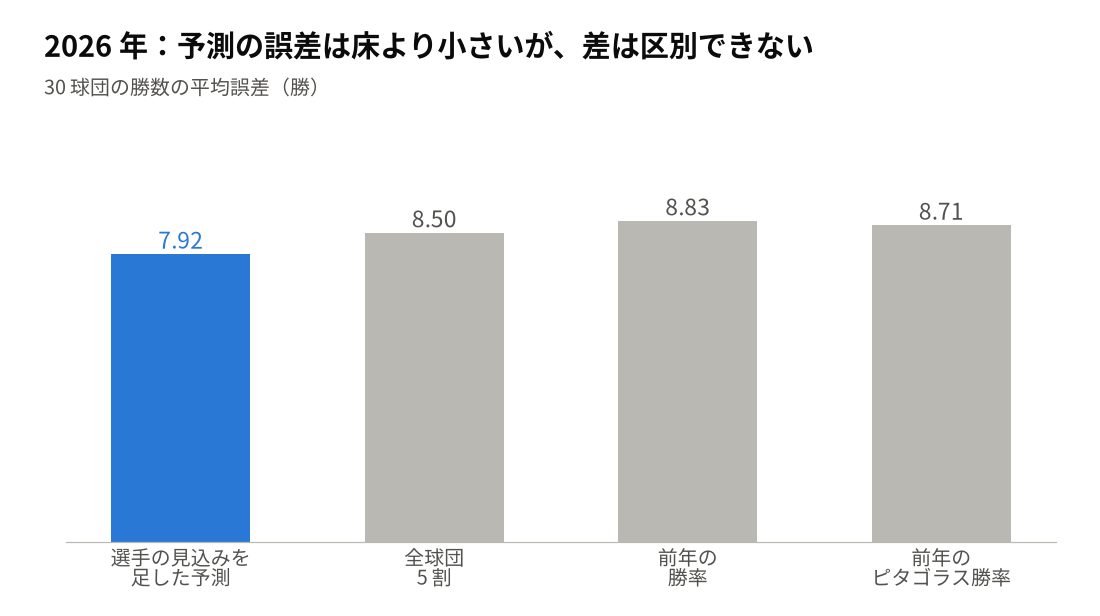
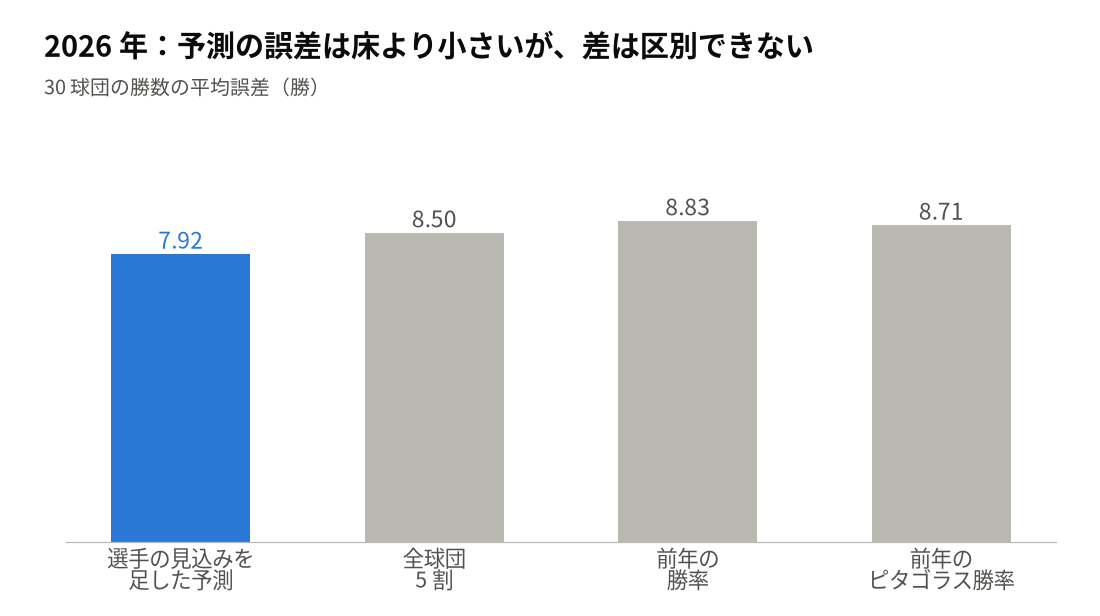
forecast article: conclusion titles, 14pt axis text, figures 8-9, MIL split on the 162-game scaling
Figure 8 splits the four big misses into runs vs record; figure 9 splits
MIL's run gap (projected batters +52, pitchers +24 of about 189). Player
projections are now scaled like the team total, so the parts add up on
the same basis. Figure 7 reads its shares from share_2026.csv.

Claude-Session: https://claude.ai/code/session_013dut8wroSJTVUEu9jYr6BF

diff --git a/forecast/team_wins/article_figs_tw.py b/forecast/team_wins/article_figs_tw.py
@@ -25,28 +25,36 @@ T = {
    f1l=["選手の見込みを\n足した予測", "全球団\n5 割", "前年の\n勝率", "前年の\nピタゴラス勝率"],
    f2="9 シーズン中 7 シーズンで、前年のピタゴラス勝率より誤差が小さかった", f2n="平均誤差（勝）",
    f2a="選手の見込みを足した予測", f2b="前年のピタゴラス勝率（床）",
-   f3="当たった球団と外れた球団", f3x="予測した勝数", f3y="実際の勝数",
+   f3="大きく外れたのは MIL・TB・SF・ATH の 4 球団", f3x="予測した勝数", f3y="実際の勝数",
    f4="予測の散らばりは実際の半分しかない", f4a="予測", f4b="実際", f4x="2026 年の勝数", f4n="標準偏差：予測 {p:.1f} 勝、実際 {a:.1f} 勝",
-   f5="得失点が分かっていても 4 勝は外れる", f5n="2026 年・30 球団の平均誤差（勝）",
+   f5="得失点が分かっていても 4 勝ほどは外れる", f5n="2026 年・30 球団の平均誤差（勝）",
    f5l=["実際の得失点から\nピタゴラス式で", "選手の見込みから\n（今回の予測）"],
-   f6="MIL：見込みの対象だった選手が上振れした", f6x="見込みとの差（点・失点を防いだ分も含む）",
+   f6="MIL：見込みより 30 点以上上振れした選手が 2 人いた", f6x="見込みとの差（点・失点を防いだ分も含む）",
    f6n="打者は wOBA、投手は FIP から換算した、リーグ平均を上回った点の差",
-   f7="出場の 2〜3 割は、見込みの無い選手だった", f7n="2026 年、開幕時の 40 人枠に過去の成績がある選手以外が占めた割合",
-   f7l=["打席", "投球回"]),
+   f7="出場の 2〜3 割は、見込みの無い選手だった", f7n="2026 年、開幕時の 40 人枠にいて過去の成績もある選手以外が占めた割合",
+   f7l=["打席", "投球回"],
+   f8="外れの中身は球団ごとに違う", f8n="予測との差（勝）を 2 つに分けたもの。マイナス＝予測より多く勝った",
+   f8a="得失点の見込みのずれ", f8b="得失点のわりの勝ち負け",
+   f9="MIL：得失点のずれのうち、見込みのあった選手の上振れは 4 割", f9n="得点 +93・失点 −96、合わせて約 190 点のずれの内訳（点）",
+   f9l=["見込みのあった打者の上振れ", "見込みのあった投手の上振れ\n（FIP から見た分）", "それ以外\n（守備・走塁・見込みの無い選手など）"]),
  "en": dict(font="DejaVu Sans",
    f1="2026: lower error than the floors, but not distinguishably",
    f1n="Mean absolute error of wins over 30 teams",
    f1l=["Projection from\nplayer forecasts", "Every team\n.500", "Last season's\nrecord", "Last season's\nPythagenpat"],
    f2="Lower error than last season's Pythagenpat in 7 of 9 seasons", f2n="Mean absolute error (wins)",
    f2a="Projection from player forecasts", f2b="Last season's Pythagenpat (floor)",
-   f3="Hits and misses", f3x="Projected wins", f3y="Actual wins",
+   f3="The big misses were MIL, TB, SF and ATH", f3x="Projected wins", f3y="Actual wins",
    f4="The projections spread half as wide as the results", f4a="Projected", f4b="Actual", f4x="2026 wins", f4n="Standard deviation: projected {p:.1f}, actual {a:.1f} wins",
-   f5="Even with the actual runs, a 4-win miss remains", f5n="2026, mean absolute error over 30 teams (wins)",
+   f5="Even with the actual runs, about 4 wins of error remain", f5n="2026, mean absolute error over 30 teams (wins)",
    f5l=["Pythagenpat from\nactual runs", "From player\nforecasts (this one)"],
-   f6="MIL: players it did project played above their forecasts", f6x="Actual minus projected runs",
+   f6="MIL: two projected players beat their forecast by 30+ runs", f6x="Actual minus projected runs",
    f6n="Runs above league average from wOBA (batters) or FIP (pitchers)",
-   f7="20-30% of playing time went to players with no forecast", f7n="2026: share not by opening-day 40-man players with MLB history",
-   f7l=["Plate appearances", "Innings"]),
+   f7="20-30% of playing time went to players with no forecast", f7n="2026: share taken by players other than opening-day 40-man players with MLB history",
+   f7l=["Plate appearances", "Innings"],
+   f8="What the miss is made of differs by team", f8n="Projected minus actual wins, split in two; negative = won more than projected",
+   f8a="Runs projection off", f8b="Record vs runs",
+   f9="MIL: projected players beating forecasts explain 40% of the run gap", f9n="Runs +93 scored, -96 allowed: about 190 runs in all",
+   f9l=["Projected batters\nabove forecast", "Projected pitchers\nabove forecast (FIP)", "Everything else\n(fielding, baserunning,\nunprojected players)"]),
 }
 
 
@@ -54,7 +62,7 @@ def base(ax):
     for s in ("top", "right", "left"):
         ax.spines[s].set_visible(False)
     ax.spines["bottom"].set_color(GRAY)
-    ax.tick_params(colors=SUB, length=0, labelsize=13)
+    ax.tick_params(colors=SUB, length=0, labelsize=14)
 
 
 def title(fig, text, note=None):
@@ -138,16 +146,45 @@ for lang, t in T.items():
     for i, v in enumerate(g.values):
         ax.text(v + 0.5, i, f"+{v:.0f}", va="center", fontsize=13, color=ORANGE if v > 25 else SUB)
     ax.set_yticks(range(len(g)), g.index); ax.set_xticks([])
-    ax.set_xlabel(t["f6x"], fontsize=13, color=SUB)
+    ax.set_xlabel(t["f6x"], fontsize=14, color=SUB)
     save(fig, "team_wins_6", lang)
 
     # 7. unprojected playing time
     fig = plt.figure(figsize=(10, 4.6)); title(fig, t["f7"], t["f7n"])
     ax = fig.add_axes([0.2, 0.12, 0.74, 0.55]); base(ax)
-    v = [0.198, 0.271]
+    sh = pd.read_csv("share_2026.csv").iloc[0]
+    v = [sh.pa, sh.ip]
     ax.barh([1, 0], v, color=BLUE, height=0.5)
     for i, y in zip([1, 0], v):
         ax.text(y + 0.005, i, f"{y:.0%}", va="center", fontsize=15, color=BLUE)
     ax.set_yticks([1, 0], t["f7l"]); ax.set_xticks([]); ax.set_xlim(0, 0.35)
     save(fig, "team_wins_7", lang)
+    # 8. four big misses split
+    four = dig.set_index("team").loc[["MIL", "TB", "SF", "ATH"]]
+    fig = plt.figure(figsize=(10, 5.6)); title(fig, t["f8"], t["f8n"])
+    ax = fig.add_axes([0.1, 0.08, 0.86, 0.62]); base(ax)
+    y = np.arange(4)[::-1]
+    ax.barh(y + 0.18, four.miss_runs, height=0.34, color=BLUE)
+    ax.barh(y - 0.18, four.miss_luck, height=0.34, color=GRAY)
+    for yy, a, b in zip(y, four.miss_runs, four.miss_luck):
+        ax.text(a + (0.6 if a > 0 else -0.6), yy + 0.18, f"{a:+.0f}", va="center", ha="left" if a > 0 else "right", fontsize=13, color=BLUE)
+        ax.text(b + (0.6 if b > 0 else -0.6), yy - 0.18, f"{b:+.0f}", va="center", ha="left" if b > 0 else "right", fontsize=13, color=SUB)
+    ax.text(4.5, y[0] + 0.18, t["f8a"], va="center", ha="left", fontsize=13, color=BLUE)
+    ax.text(4.5, y[0] - 0.18, t["f8b"], va="center", ha="left", fontsize=13, color=SUB)
+    ax.axvline(0, color=GRAY, lw=1); ax.set_yticks(y, four.index); ax.set_xticks([]); ax.set_xlim(-26, 26)
+    ax.spines["bottom"].set_visible(False)
+    save(fig, "team_wins_8", lang)
+
+    # 9. MIL run gap
+    mil = dig.set_index("team").loc["MIL"]
+    total = -mil.rs_err + mil.ra_err
+    bparts = [mb.gap.sum(), mp.gap.sum()]
+    parts = bparts + [total - sum(bparts)]
+    fig = plt.figure(figsize=(10, 5.2)); title(fig, t["f9"], t["f9n"])
+    ax = fig.add_axes([0.36, 0.1, 0.58, 0.62]); base(ax)
+    ax.barh([2, 1, 0], parts, color=[BLUE, BLUE, GRAY], height=0.55)
+    for i, v in zip([2, 1, 0], parts):
+        ax.text(v + 2, i, f"{v:.0f}", va="center", fontsize=15, color=SUB if i == 0 else BLUE)
+    ax.set_yticks([2, 1, 0], t["f9l"]); ax.set_xticks([]); ax.set_xlim(0, 140)
+    save(fig, "team_wins_9", lang)
 print("ok", mae26)

diff --git a/forecast/team_wins/article_dig2.py b/forecast/team_wins/article_dig2.py
@@ -25,10 +25,14 @@ lg26 = P.league(bat, pit, 2026)
 mil = rosters[(rosters.season == 2026) & (rosters.team == "MIL")].player_id
 a_b = bat[(bat.season == 2026) & bat.player_id.isin(mil) & (bat.pa > 0)].set_index("player_id")
 a_p = pit[(pit.season == 2026) & pit.player_id.isin(mil) & (pit.ip > 0)].set_index("player_id")
-rb = pd.DataFrame({"proj_pa": pb.pa, "proj_runs": pb.pa * pb.rel / lg25["scale"]}).reindex(mil).dropna()
+# The team projection rescales playing time so the roster fills 162 games;
+# use the same scaling here so the players add up to the team figure.
+kb = lg25["pa_g"] * P.G / pb.pa.reindex(mil).dropna().sum()
+kp = lg25["ip_g"] * P.G / pp.ip.reindex(mil).dropna().sum()
+rb = pd.DataFrame({"proj_pa": kb * pb.pa, "proj_runs": kb * pb.pa * pb.rel / lg25["scale"]}).reindex(mil).dropna()
 rb["act_pa"] = a_b.pa.reindex(rb.index).fillna(0)
 rb["act_runs"] = ((a_b.woba - lg26["woba"]) * a_b.pa / lg26["scale"]).reindex(rb.index).fillna(0)
-rp = pd.DataFrame({"proj_ip": pp.ip, "proj_runs": -pp.ip * pp.rel / 9}).reindex(mil).dropna()
+rp = pd.DataFrame({"proj_ip": kp * pp.ip, "proj_runs": -kp * pp.ip * pp.rel / 9}).reindex(mil).dropna()
 rp["act_ip"] = a_p.ip.reindex(rp.index).fillna(0)
 rp["act_runs"] = (-(a_p.fip - lg26["fip"]) * a_p.ip / 9).reindex(rp.index).fillna(0)
 for nm, r in [("MIL batters", rb), ("MIL pitchers (runs saved, FIP)", rp)]:

diff --git a/forecast/team_wins/article_dig.py b/forecast/team_wins/article_dig.py
@@ -51,6 +51,8 @@ share = pd.DataFrame({
     "war_nohist": b26[b26.no_hist].groupby("last_team_id").war.sum() + p26[p26.no_hist].groupby("last_team_id").war.sum(),
 }).fillna(0)
 d = d.merge(share, left_on="team_id", right_index=True)
+pd.DataFrame({"pa": [b26.pa[~b26.projected].sum() / b26.pa.sum()],
+              "ip": [p26.ip[~p26.projected].sum() / p26.ip.sum()]}).to_csv("share_2026.csv", index=False)
 print("league: PA by unprojected", round(b26.pa[~b26.projected].sum() / b26.pa.sum(), 3),
       "IP by unprojected", round(p26.ip[~p26.projected].sum() / p26.ip.sum(), 3))
 print("corr(miss, war_unproj)", np.corrcoef(d.miss, d.war_unproj)[0, 1].round(3),
